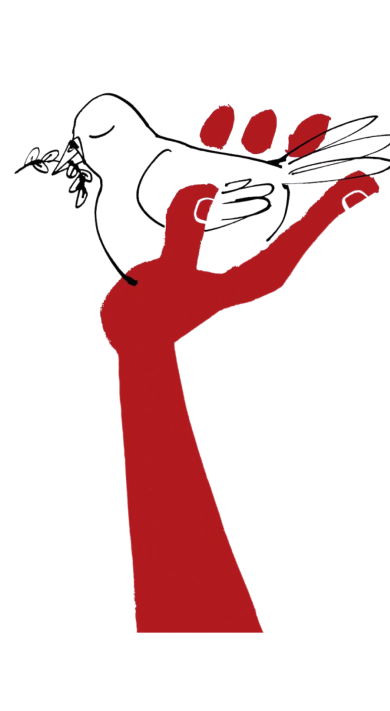
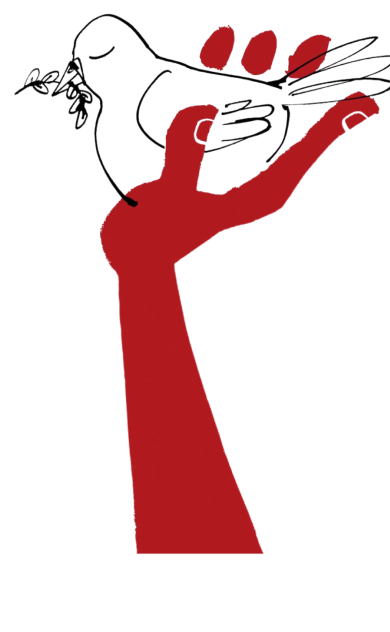
adding media settings for mobile, more changes on main

diff --git a/styles.css b/styles.css
@@ -1,4 +1,6 @@
 html, body {
+    overflow-x: hidden;
+    width: 100%;
     height: 100%; /* Ensure the body takes up full height */
     margin: 0;    /* Remove default margin */
     scroll-behavior: smooth; /* Enables smooth scrolling for anchor links */
@@ -95,7 +97,7 @@ body {
     margin-top: -45px;
     width: 100%;
     align-items: flex-start;
-    padding: 20px 0px 0 0;
+    padding: 10px 0px 0 0;
 }
 
 .menu-hand-pic {
@@ -105,6 +107,7 @@ body {
         width: 100%;
         object-fit: cover;
         object-position: center;
+        padding: 0, 0, 0, 0;
 }
 
 /* Round buttons */
@@ -350,3 +353,15 @@ background-position: 60% 50%;
 .heart-icon {
     margin: -100px -30px 0 -30px;
 }
+
+
+@media only screen and (max-width: 300px) {
+    body {
+      font-size: 16px;
+      background-color: white;
+    }
+    .container {
+      width: 100%;
+      padding: 10px;
+    }
+  }
